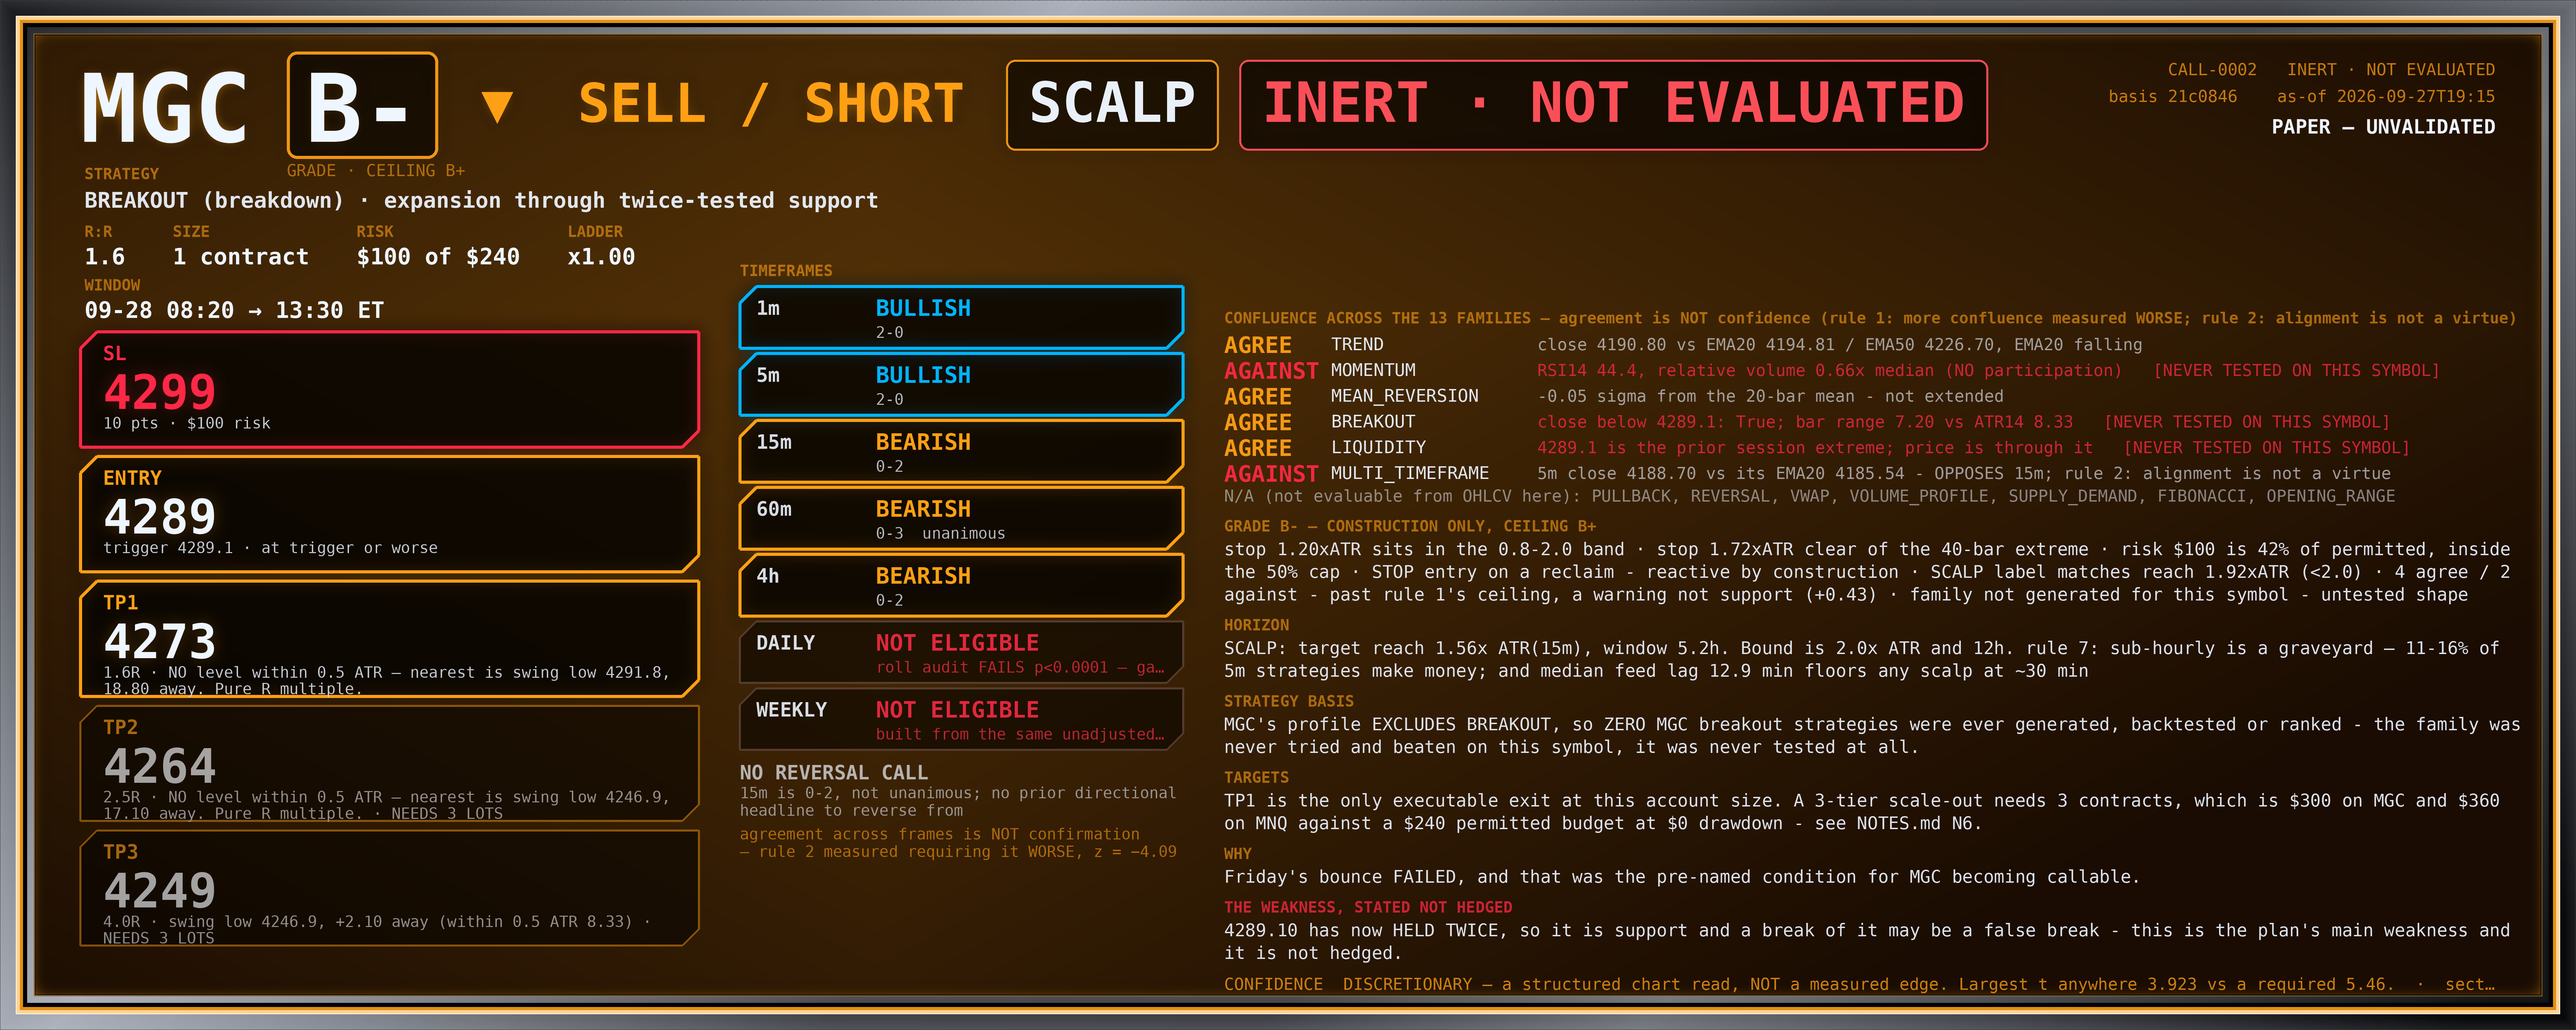
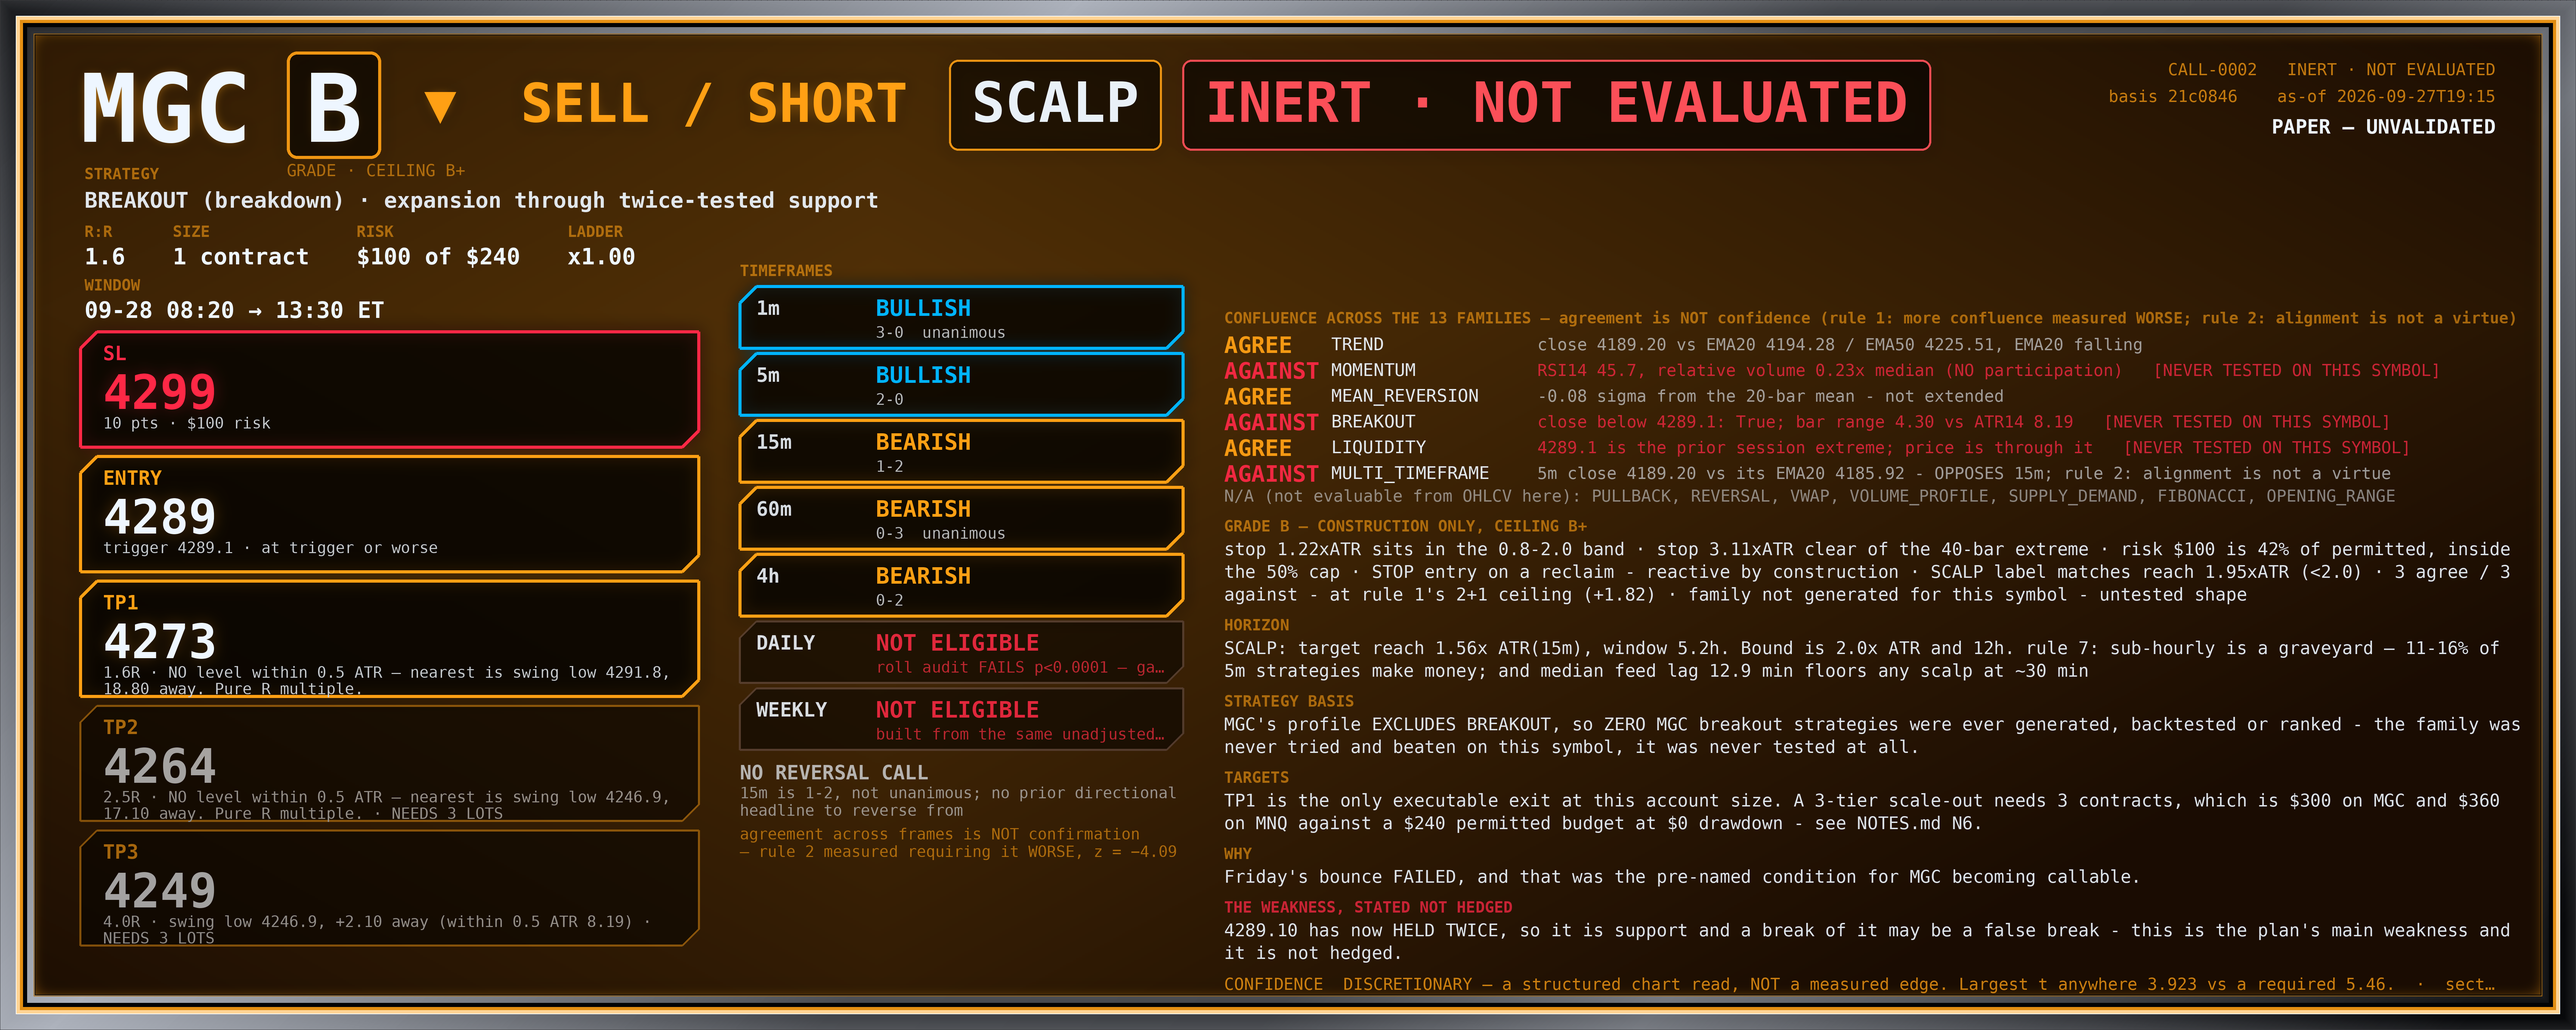
CALL desk: N109 - both symbols' structure turns BULL, reversal test says no on both with named reasons; N110 - the twice-declined MNQ setup has decayed
N109: MGC structure flipped BULL - swing highs 4185.20 -> 4191.40 and lows 4172.60 ->
4183.90, both higher. MNQ already BULL. Both 15m tallies now 1-2; only the 60m frames
remain unanimous bearish, as they have been since the session began. MGC's higher low
is 11.30 points against its 6.80-point largest non-session-open low revision, so it is
beyond the noise floor - unlike the higher high at 6.20, which sits exactly on it.

Ran reversal_setup() rather than judging the chart. MGC: qualifies False, sigma -0.08
(needs |1.5|), htf_support EMPTY (needs 2), climax 1.39 "a drift, not a flush" - two
conditions fail. MNQ: qualifies False, sigma -1.10 (needs |1.5|), htf_support
4h/DAILY/WEEKLY present, climax 1.54 "flush" - one condition fails.

No long, and not discretionarily. Sigma -0.08 means MGC is sitting exactly on its own
20-bar mean, so its BULL structure is the structure of an instrument that has gone
nowhere - N93's round trip stated differently. It also has ZERO higher-timeframe
support: daily and weekly are NOT ELIGIBLE on MGC and 4h is bearish, so the two-HTF
requirement cannot be met on this symbol tonight at all.

N110: the two entries carrying declined_despite_qualifying - CALL-NT-0003 and
CALL-NT-0004, MNQ reversal setups that qualified at sigma -1.87 and -1.83 with full HTF
support and a 1.94 flush - have now DECAYED. MNQ's sigma is -1.10, below threshold, so
the setup no longer qualifies. It resolved into neither a win nor a loss; it expired as
[…]

diff --git a/workspace/paper/CALL/NOTES.md b/workspace/paper/CALL/NOTES.md
@@ -4267,3 +4267,72 @@ Two plans PENDING: CALL-0001 (MNQ LONG, 354.25 adverse, expires 16:00 bar), CALL
 08:20). Ledger: open 0, closed 0, equity $50,000.00, drawdown $0.00, full $2,800 to the absorbing state.
 
 No call. Reversal test false on both. MGC RTH opens 08:20 ET, 1h37m out.
+
+## N109 — BOTH symbols' settled structure now reads BULL, and the reversal test says no on both, with the reasons named
+
+MGC's structure has flipped to **BULL**: swing highs `4185.20 -> 4191.40` (higher) **and** swing lows
+`4172.60 -> 4183.90` (higher). MNQ was already BULL. Both 15m tallies are now **1-2**. Only the 60m frames
+are still unanimous bearish, on both symbols, as they have been since the session began.
+
+The higher low is the more solid of MGC's two: **11.30 points** (4172.60 -> 4183.90) against MGC's
+**6.80**-point largest non-session-open 15m low revision — beyond the noise floor, unlike the higher high
+at 6.20 which sits exactly on it. So MGC's higher low is established and its higher high is marginal.
+
+**I ran `reversal_setup()` rather than judging the chart, and both symbols fail with specific reasons:**
+
+    MGC   qualifies: False   side LONG   sigma -0.08   htf_support []        climax 1.39 "NO capitulation
+                             volume - a drift, not a flush"
+          reasons: only -0.08 sigma from the 20-bar mean, needs |1.5|
+                   only 0 higher timeframe(s) bullish (none), needs 2
+
+    MNQ   qualifies: False   side LONG   sigma -1.10   htf_support [4h, DAILY, WEEKLY]   climax 1.54 "flush"
+          reasons: only -1.10 sigma from the 20-bar mean, needs |1.5|
+
+**No long, and the reasons are not discretionary.** MGC fails two conditions, and the first one is the
+telling number: **sigma −0.08 means MGC is sitting exactly on its own 20-bar mean.** Its "BULL structure"
+is the structure of an instrument that has gone nowhere — which is N93's round trip stated a different way.
+It also has **zero** higher-timeframe support: daily and weekly are NOT ELIGIBLE on MGC and 4h is bearish,
+so the two-HTF requirement cannot be met on this symbol tonight at all. MNQ fails on sigma alone, with HTF
+support present and a genuine flush.
+
+A long here would be buying a symbol at its mean with no higher-timeframe support, on a structure label
+built partly from a 6.20-point difference that equals its own noise maximum. The bright-line rule — call a
+REVERSAL only when the test returns true on **all** conditions — says no, and on the numbers it is not close
+on MGC.
+
+## N110 — the MNQ setup I declined twice has now DECAYED, so those declines will never get an outcome
+
+`CALL-NT-0003` (06:34Z) and `CALL-NT-0004` (07:34Z) are the two journal entries carrying
+`declined_despite_qualifying: true`. Both recorded MNQ reversal setups that **did** qualify on every
+condition — sigma −1.87 and −1.83, HTF support 4h/DAILY/WEEKLY, and in the second case climax_x 1.94
+labelled "flush".
+
+At 06:47 MNQ's sigma has decayed to **−1.10**, below the |1.5| threshold. **The setup no longer qualifies.**
+It did not resolve into a win or a loss; it expired as a setup while I stood aside.
+
+That is worth naming because it is the least useful possible outcome for the record. A declined setup that
+subsequently pays, or subsequently fails, teaches something. A declined setup that simply stops being a
+setup teaches nothing, and two of them are now in that state. The journal will show
+`declined_despite_qualifying: true` with `outcome: null` forever, because there is no trade to attach an
+outcome to and `resolve.py` — correctly — only writes outcomes for plans that were pre-registered.
+
+The honest self-criticism, unchanged from when I first recorded it: the detector fired, the conditions were
+met, and I did not take it. Tonight produced **zero fills** across the entire session, and two of the
+nearest misses were setups the desk's own test said qualified. Whatever the reasoning in each case, a desk
+that declines its own qualifying signals is not being measured on its signals — it is being measured on its
+discretion, and it has no record of that discretion paying.
+
+## N111 — 06:47 state
+
+Seventh settled pair: MGC `06:00` 4187.50 -> `06:15` **4190.80** (+3.30), MNQ 30567.75 -> **30575.75**
+(+8.00). Both up. Settled tally since `04:15`: MGC **+13.90**, MNQ **−47.00**.
+
+Newest real 5m `06:35` on both, lag 13.0m. MGC unsettled 4189.20, MNQ 30568.25. Locations MGC 16.5% of
+[4172.60, **4273.50**], MNQ 10.5% of [30535.00, **30857.00**] — both range highs rolled down again (N53,
+eighth and ninth sightings; MGC's high has now fallen 4303.50 -> 4273.50 purely by bars leaving the window).
+
+Frames: MGC 1m BULL 3-0 unanimous, 5m BULL 2-0, 15m BEAR 1-2, 60m BEAR 0-3 unanimous. MNQ 1m CONFLICTED
+1-1, 5m BEAR 0-2, 15m BEAR 1-2, 60m BEAR 0-3 unanimous.
+
+Two plans PENDING: CALL-0001 (MNQ LONG, adverse), CALL-0002 (inert, window opens 08:20). Ledger: open 0,
+closed 0, equity $50,000.00, drawdown $0.00. No call. MGC RTH opens 08:20 ET, 1h33m out.
